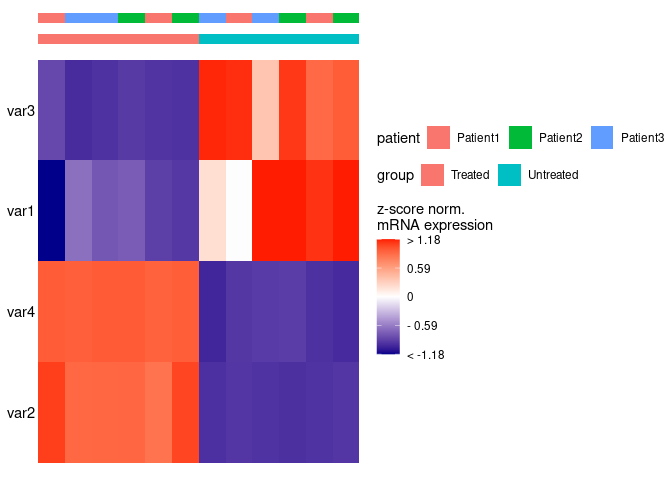
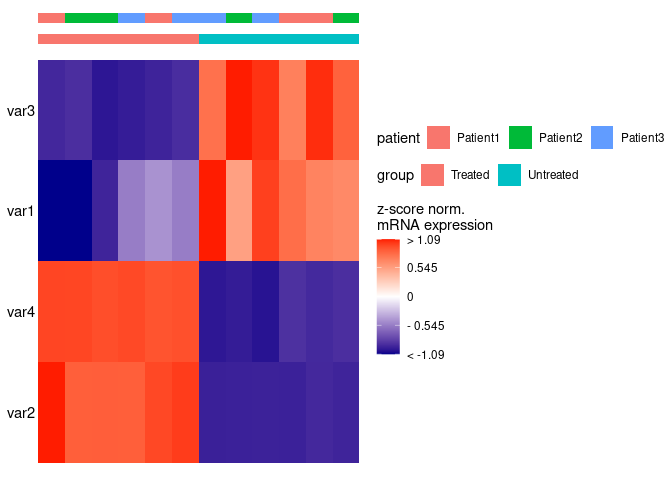
readme update

diff --git a/README.md b/README.md
@@ -6,7 +6,11 @@
 <!-- badges: start -->
 <!-- badges: end -->
 
-The goal of simpleHM is to …
+The goal of simpleHM is to provide a package to generate heatmap
+visualisations. In contrast to something like the
+[ComplexHeatmap](https://github.com/jokergoo/ComplexHeatmap/) package,
+it generates plots using ggplot2 and the tidyverse, allowing for better
+customisation and integration into existing workflows.
 
 ## Installation
 
@@ -36,12 +40,12 @@ df <- data.frame(samples = c(paste0("untreated", 1:6), paste0("treated", 7:12)),
 
 head(df)
 #>      samples     group  patient batch      var1      var2     var3      var4
-#> 1 untreated1 Untreated Patient1     1 10.503050 10.347042 50.68064  9.169438
-#> 2 untreated2 Untreated Patient2     2 10.880663  8.937040 55.38670 10.763202
-#> 3 untreated3 Untreated Patient3     1  8.624365  8.497992 56.53160  7.617076
-#> 4 untreated4 Untreated Patient1     2  8.183576 11.835800 56.09138  9.927114
-#> 5 untreated5 Untreated Patient2     1 10.656797 11.880149 52.04441  8.445013
-#> 6 untreated6 Untreated Patient3     2 11.007595 10.372460 38.68375 10.470105
+#> 1 untreated1 Untreated Patient1     1 10.080857  9.031367 44.16176 11.945974
+#> 2 untreated2 Untreated Patient2     2  9.652045  9.068599 54.38544  9.530221
+#> 3 untreated3 Untreated Patient3     1 11.320619  8.654449 45.62264  9.005435
+#> 4 untreated4 Untreated Patient1     2  9.906732 12.187999 50.92283 11.006231
+#> 5 untreated5 Untreated Patient2     1  9.854646 10.365214 47.04367 11.655614
+#> 6 untreated6 Untreated Patient3     2 10.386753  9.448740 50.60357  8.606055
 
 heatmap_plot <- simpleHM(df, excluded_vars = "batch")    
 heatmap_plot
